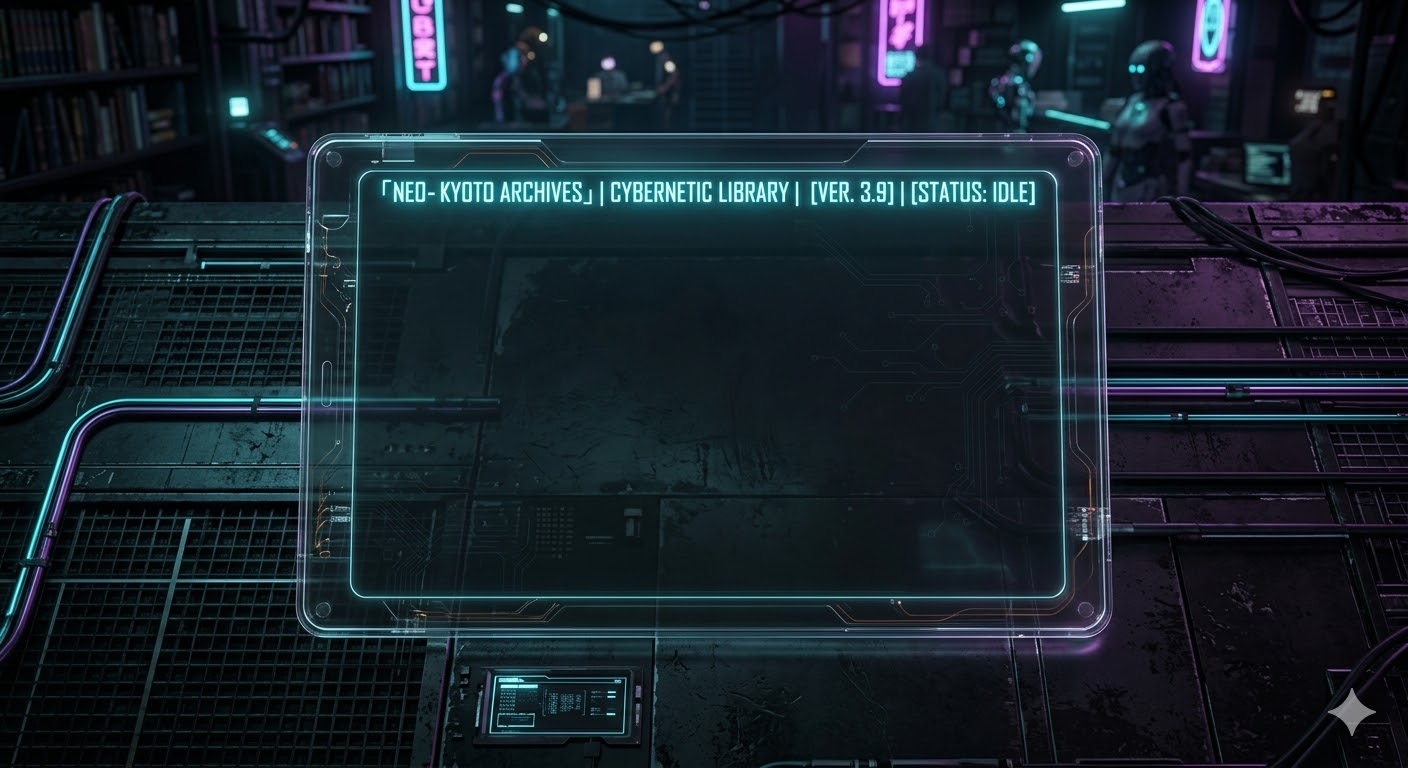
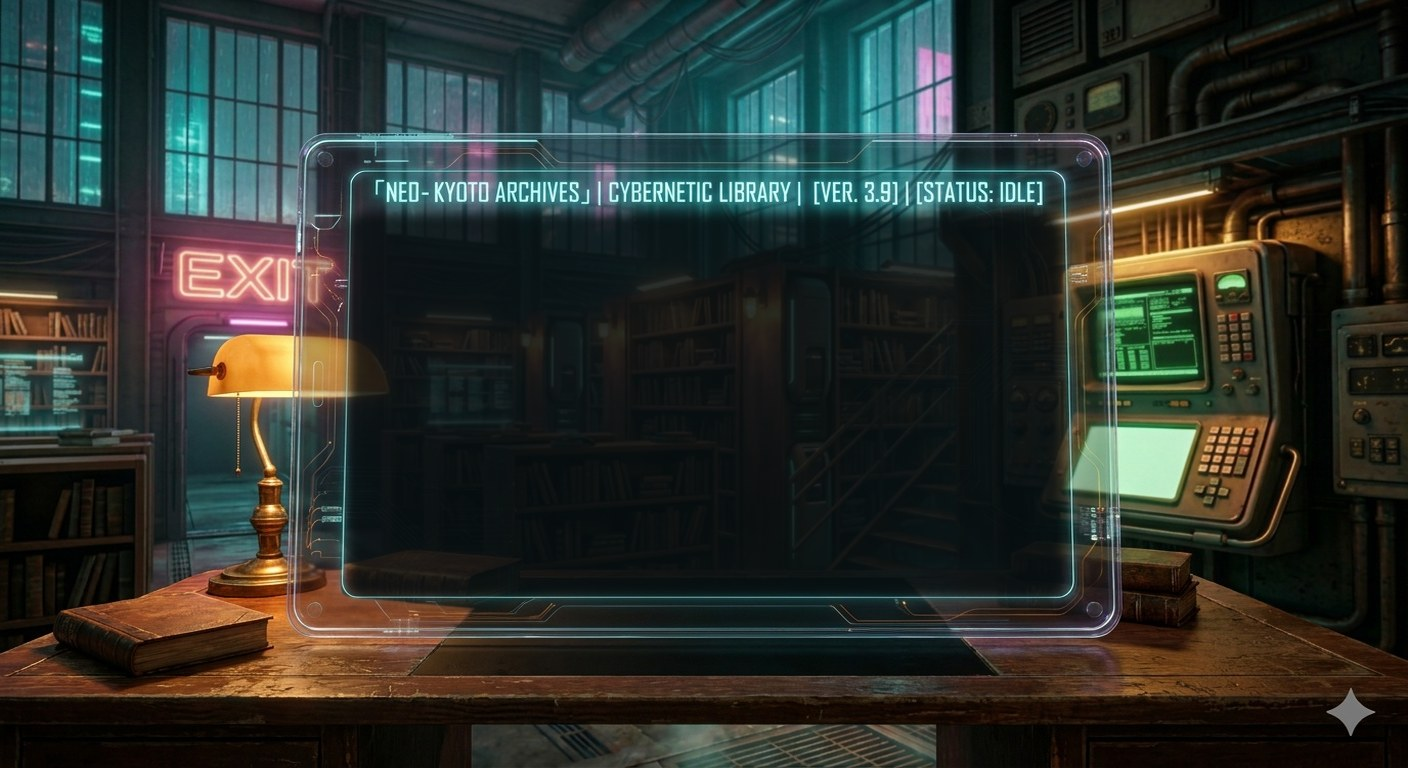
feat(tablet): put the tablet on a reading desk in the library
The old background was a purple sci-fi lab that didn't match the library
room. New Nano Banana Pro image keeps the tablet in place, sets it on a
wooden desk in front of the library, and darkens the screen like smoked
glass so the text stays readable.

diff --git a/places/tablet.html b/places/tablet.html
@@ -192,7 +192,7 @@
 <body>
   <script>if (window.self !== window.top) document.body.classList.add('in-shell');</script>
   <main class="scene">
-    <img class="bg" src="../pics/library-tablet.jpg" alt="Cyberpunk tablet on a desk in the library, screen glowing cyan.">
+    <img class="bg" src="../pics/library-tablet.jpg" alt="Glass tablet on a wooden reading desk in the library, bookshelves and rainy windows behind.">
     <div class="vignette" aria-hidden="true"></div>
     <div class="spot" aria-hidden="true"></div>
 
